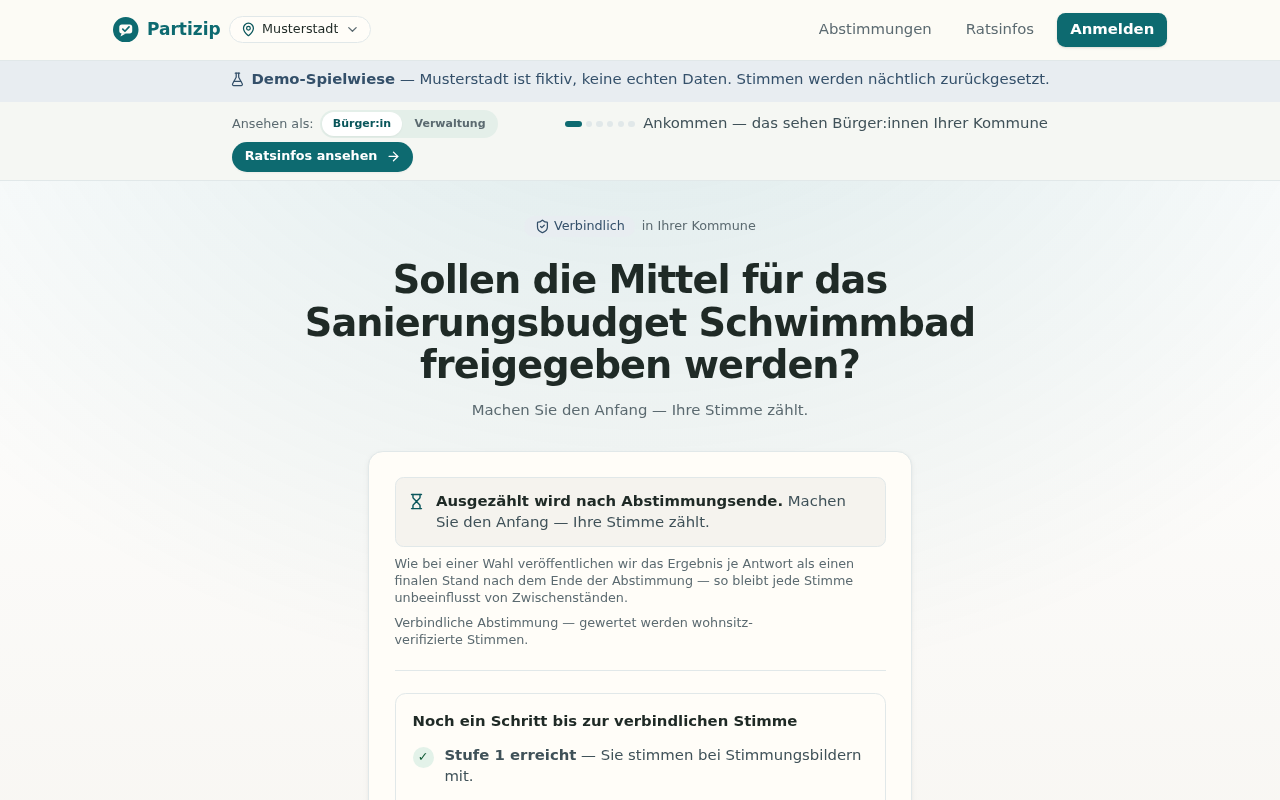
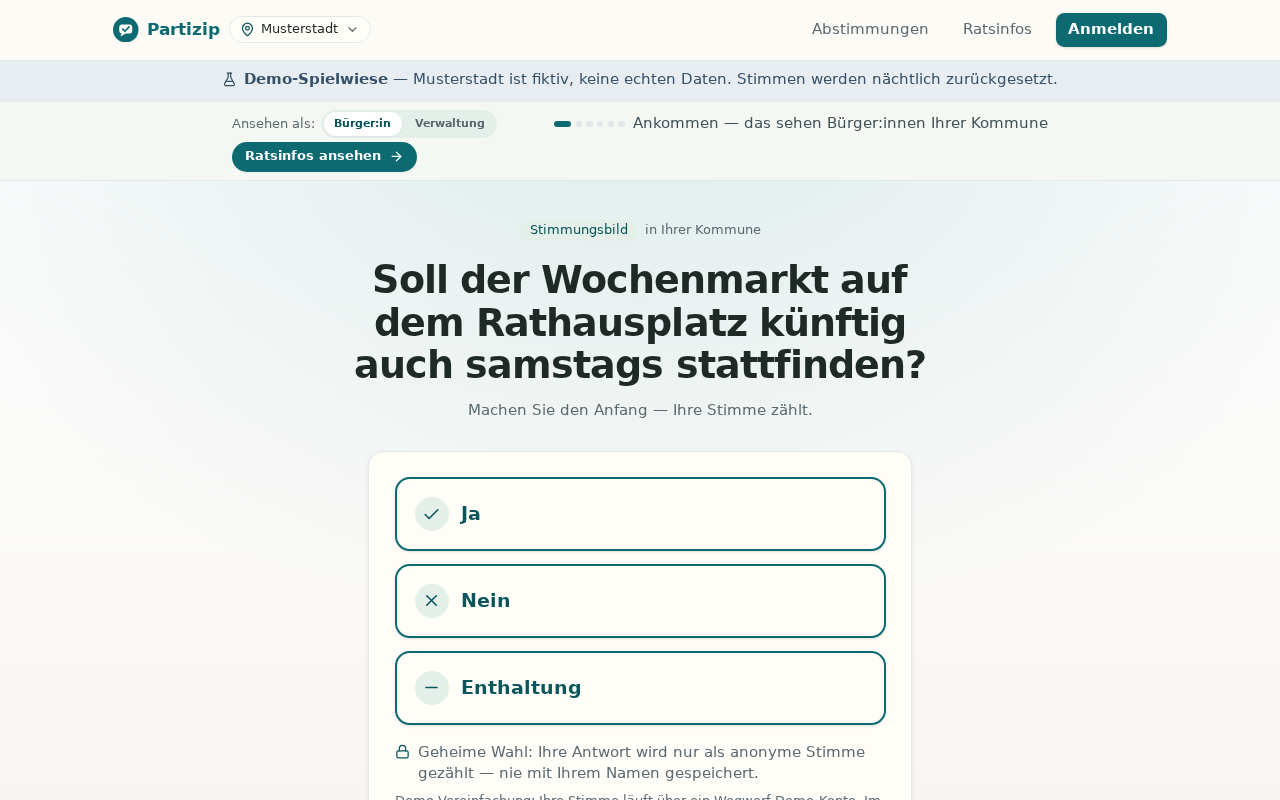
fix(docs): DEMO_TENANT_SLUG in .env.example + Demo-Screenshots ohne Dubletten
- .env.example: DEMO_TENANT_SLUG dokumentiert (SELBST_HOSTING.md verweist
  auf .env.example als Vorlage jeder Variable — der Eintrag fehlte dort).
- Screenshots startseite-demo/umfragen-uebersicht(+mobil) neu aufgenommen:
  die alten Aufnahmen zeigten Dubletten (Wochenmarkt doppelt, zwei fast
  identische Tempo-30-Ergebnisse, Schwimmbad/Freibad), weil ein einmaliger
  db:seed:demo-Lauf VOR dem naechtlichen demo:reset drei Basis-Fragen
  zusaetzlich auf den Demo-Mandanten gelegt hatte. Neuaufnahme aus dem
  kuratierten Post-Reset-Zustand (6 Fragen, identisch zum Live-Zustand
  nach dem naechsten Reset); Alt-Text der Startseite an den neuen Hero
  (Stimmungsbild statt verbindlicher Abstimmung) angepasst.

Claude-Session: https://claude.ai/code/session_01BervJUSWK8ymMbcuBuu9d9

diff --git a/README.md b/README.md
@@ -83,7 +83,7 @@ nächtlicher Reset — ausprobieren ohne Anmeldung).
 
 | | |
 |---|---|
-| ![Startseite der Demo: aktuelle verbindliche Abstimmung mit Hinweis „Ausgezählt wird nach Abstimmungsende" und Stufen-Erklärung](docs/assets/startseite-demo.png) | ![Abstimmungs-Übersicht: laufende Fragen mit Format-Badges (Verbindlich, Stimmungsbild, Punkte-Voting, Widerstandsabfrage) und Ergebnisse-Sektion beendeter Abstimmungen](docs/assets/umfragen-uebersicht.png) |
+| ![Startseite der Demo: aktuelles Stimmungsbild zum direkten Mitstimmen (Ja/Nein/Enthaltung) mit Hinweis auf die geheime Wahl](docs/assets/startseite-demo.png) | ![Abstimmungs-Übersicht: laufende Fragen mit Format-Badges (Verbindlich, Stimmungsbild, Punkte-Voting, Widerstandsabfrage) und Ergebnisse-Sektion beendeter Abstimmungen](docs/assets/umfragen-uebersicht.png) |
 | ![Ergebnis eines beendeten Punkte-Votings: Punkteverteilung auf vier Optionen eines Bürgerbudgets, mit Teilnehmer- und Verifizierten-Zahl sowie Beleg-Prüfung](docs/assets/punkte-voting-ergebnis.png) | ![Ergebnis einer Widerstandsabfrage: vier Varianten mit Gesamtwiderstand und Durchschnitt, die Variante mit dem geringsten Widerstand ist als Konsens-Gewinner markiert](docs/assets/widerstandsabfrage-ergebnis.png) |
 | ![Verifizierungs-Seite: Drei-Schritte-Anleitung (Stelle finden, hingehen, Konto-QR zeigen), Walk-in-Standorte mit Öffnungszeiten und Ausblick auf die künftige eID-Option](docs/assets/verifizieren-walkin.png) | ![Mobile Ansicht der Abstimmungs-Übersicht im Smartphone-Format](docs/assets/umfragen-uebersicht-mobil.png) |
 
